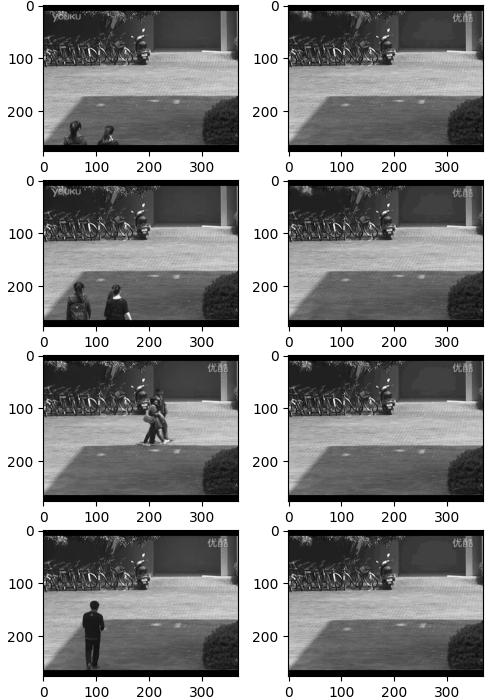
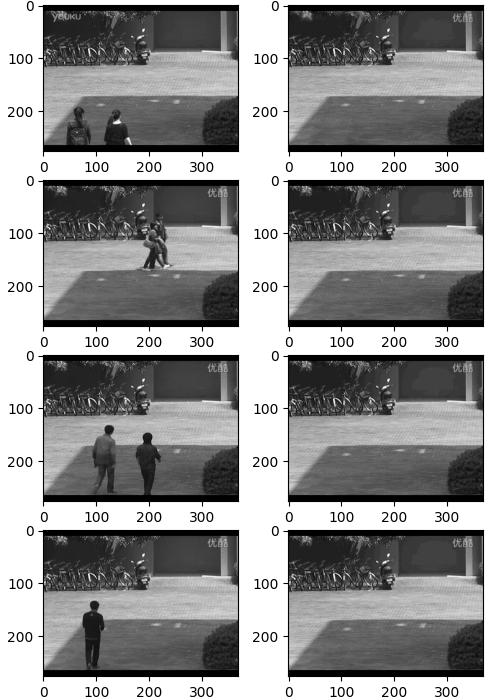
-

diff --git a/vision/vision_20ir/arkaplan__background__tespiti.html b/vision/vision_20ir/arkaplan__background__tespiti.html
@@ -90,52 +90,49 @@ class="sourceCode python"><code class="sourceCode python"><span id="cb1-1"><a hr
 <span id="cb1-2"><a href="#cb1-2" aria-hidden="true" tabindex="-1"></a><span class="im">import</span> numpy <span class="im">as</span> np, cv2</span>
 <span id="cb1-3"><a href="#cb1-3" aria-hidden="true" tabindex="-1"></a><span class="im">import</span> time, datetime</span>
 <span id="cb1-4"><a href="#cb1-4" aria-hidden="true" tabindex="-1"></a></span>
-<span id="cb1-5"><a href="#cb1-5" aria-hidden="true" tabindex="-1"></a><span class="co"># --- Parameters ---</span></span>
-<span id="cb1-6"><a href="#cb1-6" aria-hidden="true" tabindex="-1"></a>N <span class="op">=</span> <span class="dv">400</span>                    <span class="co"># &quot;memory&quot; factor (higher = slower updates)</span></span>
-<span id="cb1-7"><a href="#cb1-7" aria-hidden="true" tabindex="-1"></a>bandwidth <span class="op">=</span> <span class="fl">40.0</span>           <span class="co"># Gaussian bandwidth (spread)</span></span>
-<span id="cb1-8"><a href="#cb1-8" aria-hidden="true" tabindex="-1"></a>num_bins <span class="op">=</span> <span class="dv">32</span>              <span class="co"># how many bins to represent PDF</span></span>
-<span id="cb1-9"><a href="#cb1-9" aria-hidden="true" tabindex="-1"></a>bin_centers <span class="op">=</span> np.linspace(<span class="dv">0</span>, <span class="dv">255</span>, num_bins).astype(np.float32)</span>
-<span id="cb1-10"><a href="#cb1-10" aria-hidden="true" tabindex="-1"></a>alpha <span class="op">=</span> <span class="dv">1</span><span class="op">/</span>N</span>
-<span id="cb1-11"><a href="#cb1-11" aria-hidden="true" tabindex="-1"></a></span>
-<span id="cb1-12"><a href="#cb1-12" aria-hidden="true" tabindex="-1"></a><span class="co"># --- Video input ---</span></span>
-<span id="cb1-13"><a href="#cb1-13" aria-hidden="true" tabindex="-1"></a>cap <span class="op">=</span> cv2.VideoCapture(<span class="st">&#39;/opt/Downloads/skdata/campus_vibe_video4.mp4&#39;</span>)</span>
-<span id="cb1-14"><a href="#cb1-14" aria-hidden="true" tabindex="-1"></a>fps <span class="op">=</span> <span class="bu">int</span>(cap.get(cv2.CAP_PROP_FPS))</span>
-<span id="cb1-15"><a href="#cb1-15" aria-hidden="true" tabindex="-1"></a><span class="bu">print</span>(<span class="ss">f&quot;Frame rate: </span><span class="sc">{</span>fps<span class="sc">}</span><span class="ss"> FPS&quot;</span>)</span>
-<span id="cb1-16"><a href="#cb1-16" aria-hidden="true" tabindex="-1"></a></span>
-<span id="cb1-17"><a href="#cb1-17" aria-hidden="true" tabindex="-1"></a>pdf_model <span class="op">=</span> <span class="va">None</span></span>
-<span id="cb1-18"><a href="#cb1-18" aria-hidden="true" tabindex="-1"></a>frame_index <span class="op">=</span> <span class="dv">0</span></span>
-<span id="cb1-19"><a href="#cb1-19" aria-hidden="true" tabindex="-1"></a>fig, axes <span class="op">=</span> plt.subplots(nrows<span class="op">=</span><span class="dv">4</span>, ncols<span class="op">=</span><span class="dv">2</span>, figsize<span class="op">=</span>(<span class="dv">5</span>,<span class="dv">7</span>))</span>
-<span id="cb1-20"><a href="#cb1-20" aria-hidden="true" tabindex="-1"></a>grow <span class="op">=</span> <span class="dv">0</span></span>
-<span id="cb1-21"><a href="#cb1-21" aria-hidden="true" tabindex="-1"></a><span class="cf">for</span> k <span class="kw">in</span> <span class="bu">range</span>(<span class="dv">4000</span>):</span>
-<span id="cb1-22"><a href="#cb1-22" aria-hidden="true" tabindex="-1"></a>    ret, frame <span class="op">=</span> cap.read()</span>
-<span id="cb1-23"><a href="#cb1-23" aria-hidden="true" tabindex="-1"></a>    <span class="cf">if</span> <span class="kw">not</span> ret: <span class="cf">break</span></span>
-<span id="cb1-24"><a href="#cb1-24" aria-hidden="true" tabindex="-1"></a>    gray_frame <span class="op">=</span> cv2.cvtColor(frame, cv2.COLOR_BGR2GRAY).astype(np.float32)</span>
-<span id="cb1-25"><a href="#cb1-25" aria-hidden="true" tabindex="-1"></a>    H, W <span class="op">=</span> gray_frame.shape</span>
-<span id="cb1-26"><a href="#cb1-26" aria-hidden="true" tabindex="-1"></a>    <span class="cf">if</span> pdf_model <span class="kw">is</span> <span class="va">None</span>:</span>
-<span id="cb1-27"><a href="#cb1-27" aria-hidden="true" tabindex="-1"></a>        pdf_model <span class="op">=</span> np.ones((H, W, num_bins), dtype<span class="op">=</span>np.float32) <span class="op">/</span> num_bins</span>
-<span id="cb1-28"><a href="#cb1-28" aria-hidden="true" tabindex="-1"></a></span>
-<span id="cb1-29"><a href="#cb1-29" aria-hidden="true" tabindex="-1"></a>    diffs <span class="op">=</span> gray_frame[..., <span class="va">None</span>] <span class="op">-</span> bin_centers[<span class="va">None</span>, <span class="va">None</span>, :]</span>
-<span id="cb1-30"><a href="#cb1-30" aria-hidden="true" tabindex="-1"></a>    new_pdf <span class="op">=</span> np.exp(<span class="op">-</span><span class="fl">0.5</span> <span class="op">*</span> (diffs <span class="op">/</span> bandwidth) <span class="op">**</span> <span class="dv">2</span>)</span>
-<span id="cb1-31"><a href="#cb1-31" aria-hidden="true" tabindex="-1"></a>    new_pdf <span class="op">/=</span> (new_pdf.<span class="bu">sum</span>(axis<span class="op">=-</span><span class="dv">1</span>, keepdims<span class="op">=</span><span class="va">True</span>) <span class="op">+</span> <span class="fl">1e-8</span>)  <span class="co"># normalize</span></span>
-<span id="cb1-32"><a href="#cb1-32" aria-hidden="true" tabindex="-1"></a>    pdf_model <span class="op">=</span> (<span class="dv">1</span> <span class="op">-</span> alpha) <span class="op">*</span> pdf_model <span class="op">+</span> alpha <span class="op">*</span> new_pdf</span>
-<span id="cb1-33"><a href="#cb1-33" aria-hidden="true" tabindex="-1"></a>    <span class="cf">if</span> frame_index <span class="kw">in</span> [<span class="dv">220</span>,<span class="dv">1200</span>,<span class="dv">190</span>,<span class="dv">3500</span>]:</span>
-<span id="cb1-34"><a href="#cb1-34" aria-hidden="true" tabindex="-1"></a>        background_bins <span class="op">=</span> pdf_model.argmax(axis<span class="op">=-</span><span class="dv">1</span>)  <span class="co"># index of most likely bin</span></span>
-<span id="cb1-35"><a href="#cb1-35" aria-hidden="true" tabindex="-1"></a>        background <span class="op">=</span> bin_centers[background_bins].astype(np.uint8)</span>
-<span id="cb1-36"><a href="#cb1-36" aria-hidden="true" tabindex="-1"></a>        t <span class="op">=</span> datetime.datetime.now()</span>
-<span id="cb1-37"><a href="#cb1-37" aria-hidden="true" tabindex="-1"></a>        <span class="bu">print</span>(<span class="ss">f&quot;Frame </span><span class="sc">{</span>frame_index<span class="sc">}</span><span class="ss">, Time </span><span class="sc">{</span>t<span class="sc">}</span><span class="ss">: saving background snapshot&quot;</span>)</span>
-<span id="cb1-38"><a href="#cb1-38" aria-hidden="true" tabindex="-1"></a>        background_bins <span class="op">=</span> pdf_model.argmax(axis<span class="op">=-</span><span class="dv">1</span>)  <span class="co"># index of most likely bin</span></span>
-<span id="cb1-39"><a href="#cb1-39" aria-hidden="true" tabindex="-1"></a>        background <span class="op">=</span> bin_centers[background_bins].astype(np.uint8)</span>
-<span id="cb1-40"><a href="#cb1-40" aria-hidden="true" tabindex="-1"></a>        axes[grow, <span class="dv">0</span>].imshow(gray_frame, cmap<span class="op">=</span><span class="st">&#39;gray&#39;</span>)</span>
-<span id="cb1-41"><a href="#cb1-41" aria-hidden="true" tabindex="-1"></a>        axes[grow, <span class="dv">1</span>].imshow(background, cmap<span class="op">=</span><span class="st">&#39;gray&#39;</span>)</span>
-<span id="cb1-42"><a href="#cb1-42" aria-hidden="true" tabindex="-1"></a>        grow <span class="op">=</span> grow <span class="op">+</span> <span class="dv">1</span>        </span>
-<span id="cb1-43"><a href="#cb1-43" aria-hidden="true" tabindex="-1"></a></span>
-<span id="cb1-44"><a href="#cb1-44" aria-hidden="true" tabindex="-1"></a>    frame_index <span class="op">+=</span> <span class="dv">1</span></span>
-<span id="cb1-45"><a href="#cb1-45" aria-hidden="true" tabindex="-1"></a>    <span class="cf">if</span> cv2.waitKey(<span class="dv">1</span>) <span class="op">&amp;</span> <span class="bn">0xFF</span> <span class="op">==</span> <span class="bu">ord</span>(<span class="st">&#39;q&#39;</span>): <span class="cf">break</span></span>
-<span id="cb1-46"><a href="#cb1-46" aria-hidden="true" tabindex="-1"></a>    </span>
-<span id="cb1-47"><a href="#cb1-47" aria-hidden="true" tabindex="-1"></a>plt.tight_layout(pad<span class="op">=</span><span class="dv">0</span>, w_pad<span class="op">=</span><span class="dv">0</span>, h_pad<span class="op">=</span><span class="dv">0</span>)</span>
-<span id="cb1-48"><a href="#cb1-48" aria-hidden="true" tabindex="-1"></a>plt.savefig(<span class="st">&#39;vision_20ir_01.jpg&#39;</span>)</span>
-<span id="cb1-49"><a href="#cb1-49" aria-hidden="true" tabindex="-1"></a>cap.release()</span>
-<span id="cb1-50"><a href="#cb1-50" aria-hidden="true" tabindex="-1"></a>cv2.destroyAllWindows()</span></code></pre></div>
+<span id="cb1-5"><a href="#cb1-5" aria-hidden="true" tabindex="-1"></a>N <span class="op">=</span> <span class="dv">400</span>                    <span class="co"># &quot;hafiza&quot; faktoru (daha yuksek = daha yavas guncelleme)</span></span>
+<span id="cb1-6"><a href="#cb1-6" aria-hidden="true" tabindex="-1"></a>bandwidth <span class="op">=</span> <span class="fl">40.0</span>           <span class="co"># Gaussian bant genisligi</span></span>
+<span id="cb1-7"><a href="#cb1-7" aria-hidden="true" tabindex="-1"></a>num_bins <span class="op">=</span> <span class="dv">32</span>              <span class="co"># PDF temsil etmek icin kac tane nokta secelim</span></span>
+<span id="cb1-8"><a href="#cb1-8" aria-hidden="true" tabindex="-1"></a>bin_centers <span class="op">=</span> np.linspace(<span class="dv">0</span>, <span class="dv">255</span>, num_bins).astype(np.float32)</span>
+<span id="cb1-9"><a href="#cb1-9" aria-hidden="true" tabindex="-1"></a>alpha <span class="op">=</span> <span class="dv">1</span><span class="op">/</span>N</span>
+<span id="cb1-10"><a href="#cb1-10" aria-hidden="true" tabindex="-1"></a></span>
+<span id="cb1-11"><a href="#cb1-11" aria-hidden="true" tabindex="-1"></a>cap <span class="op">=</span> cv2.VideoCapture(<span class="st">&#39;/opt/Downloads/skdata/campus_vibe_video4.mp4&#39;</span>)</span>
+<span id="cb1-12"><a href="#cb1-12" aria-hidden="true" tabindex="-1"></a>fps <span class="op">=</span> <span class="bu">int</span>(cap.get(cv2.CAP_PROP_FPS))</span>
+<span id="cb1-13"><a href="#cb1-13" aria-hidden="true" tabindex="-1"></a><span class="bu">print</span>(<span class="ss">f&quot;Frame rate: </span><span class="sc">{</span>fps<span class="sc">}</span><span class="ss"> FPS&quot;</span>)</span>
+<span id="cb1-14"><a href="#cb1-14" aria-hidden="true" tabindex="-1"></a></span>
+<span id="cb1-15"><a href="#cb1-15" aria-hidden="true" tabindex="-1"></a>pdf_model <span class="op">=</span> <span class="va">None</span></span>
+<span id="cb1-16"><a href="#cb1-16" aria-hidden="true" tabindex="-1"></a>frame_index <span class="op">=</span> <span class="dv">0</span></span>
+<span id="cb1-17"><a href="#cb1-17" aria-hidden="true" tabindex="-1"></a>fig, axes <span class="op">=</span> plt.subplots(nrows<span class="op">=</span><span class="dv">4</span>, ncols<span class="op">=</span><span class="dv">2</span>, figsize<span class="op">=</span>(<span class="dv">5</span>,<span class="dv">7</span>))</span>
+<span id="cb1-18"><a href="#cb1-18" aria-hidden="true" tabindex="-1"></a>g_row <span class="op">=</span> <span class="dv">0</span></span>
+<span id="cb1-19"><a href="#cb1-19" aria-hidden="true" tabindex="-1"></a><span class="cf">for</span> k <span class="kw">in</span> <span class="bu">range</span>(<span class="dv">3600</span>):</span>
+<span id="cb1-20"><a href="#cb1-20" aria-hidden="true" tabindex="-1"></a>    ret, frame <span class="op">=</span> cap.read()</span>
+<span id="cb1-21"><a href="#cb1-21" aria-hidden="true" tabindex="-1"></a>    <span class="cf">if</span> <span class="kw">not</span> ret: <span class="cf">break</span></span>
+<span id="cb1-22"><a href="#cb1-22" aria-hidden="true" tabindex="-1"></a>    gray_frame <span class="op">=</span> cv2.cvtColor(frame, cv2.COLOR_BGR2GRAY).astype(np.float32)</span>
+<span id="cb1-23"><a href="#cb1-23" aria-hidden="true" tabindex="-1"></a>    H, W <span class="op">=</span> gray_frame.shape</span>
+<span id="cb1-24"><a href="#cb1-24" aria-hidden="true" tabindex="-1"></a>    <span class="cf">if</span> pdf_model <span class="kw">is</span> <span class="va">None</span>:</span>
+<span id="cb1-25"><a href="#cb1-25" aria-hidden="true" tabindex="-1"></a>        pdf_model <span class="op">=</span> np.ones((H, W, num_bins), dtype<span class="op">=</span>np.float32) <span class="op">/</span> num_bins</span>
+<span id="cb1-26"><a href="#cb1-26" aria-hidden="true" tabindex="-1"></a></span>
+<span id="cb1-27"><a href="#cb1-27" aria-hidden="true" tabindex="-1"></a>    diffs <span class="op">=</span> gray_frame[..., <span class="va">None</span>] <span class="op">-</span> bin_centers[<span class="va">None</span>, <span class="va">None</span>, :]</span>
+<span id="cb1-28"><a href="#cb1-28" aria-hidden="true" tabindex="-1"></a>    new_pdf <span class="op">=</span> np.exp(<span class="op">-</span><span class="fl">0.5</span> <span class="op">*</span> (diffs <span class="op">/</span> bandwidth) <span class="op">**</span> <span class="dv">2</span>)</span>
+<span id="cb1-29"><a href="#cb1-29" aria-hidden="true" tabindex="-1"></a>    new_pdf <span class="op">/=</span> (new_pdf.<span class="bu">sum</span>(axis<span class="op">=-</span><span class="dv">1</span>, keepdims<span class="op">=</span><span class="va">True</span>) <span class="op">+</span> <span class="fl">1e-8</span>)  <span class="co"># normalize</span></span>
+<span id="cb1-30"><a href="#cb1-30" aria-hidden="true" tabindex="-1"></a>    pdf_model <span class="op">=</span> (<span class="dv">1</span> <span class="op">-</span> alpha) <span class="op">*</span> pdf_model <span class="op">+</span> alpha <span class="op">*</span> new_pdf</span>
+<span id="cb1-31"><a href="#cb1-31" aria-hidden="true" tabindex="-1"></a>    <span class="cf">if</span> frame_index <span class="kw">in</span> [<span class="dv">220</span>,<span class="dv">1200</span>,<span class="dv">1900</span>,<span class="dv">3500</span>]:</span>
+<span id="cb1-32"><a href="#cb1-32" aria-hidden="true" tabindex="-1"></a>        background_bins <span class="op">=</span> pdf_model.argmax(axis<span class="op">=-</span><span class="dv">1</span>)  <span class="co"># index of most likely bin</span></span>
+<span id="cb1-33"><a href="#cb1-33" aria-hidden="true" tabindex="-1"></a>        background <span class="op">=</span> bin_centers[background_bins].astype(np.uint8)</span>
+<span id="cb1-34"><a href="#cb1-34" aria-hidden="true" tabindex="-1"></a>        t <span class="op">=</span> datetime.datetime.now()</span>
+<span id="cb1-35"><a href="#cb1-35" aria-hidden="true" tabindex="-1"></a>        <span class="bu">print</span>(<span class="ss">f&quot;Frame </span><span class="sc">{</span>frame_index<span class="sc">}</span><span class="ss">, Time </span><span class="sc">{</span>t<span class="sc">}</span><span class="ss">: saving background snapshot&quot;</span>)</span>
+<span id="cb1-36"><a href="#cb1-36" aria-hidden="true" tabindex="-1"></a>        background_bins <span class="op">=</span> pdf_model.argmax(axis<span class="op">=-</span><span class="dv">1</span>)  <span class="co"># index of most likely bin</span></span>
+<span id="cb1-37"><a href="#cb1-37" aria-hidden="true" tabindex="-1"></a>        background <span class="op">=</span> bin_centers[background_bins].astype(np.uint8)</span>
+<span id="cb1-38"><a href="#cb1-38" aria-hidden="true" tabindex="-1"></a>        axes[g_row, <span class="dv">0</span>].imshow(gray_frame, cmap<span class="op">=</span><span class="st">&#39;gray&#39;</span>)</span>
+<span id="cb1-39"><a href="#cb1-39" aria-hidden="true" tabindex="-1"></a>        axes[g_row, <span class="dv">1</span>].imshow(background, cmap<span class="op">=</span><span class="st">&#39;gray&#39;</span>)</span>
+<span id="cb1-40"><a href="#cb1-40" aria-hidden="true" tabindex="-1"></a>        g_row <span class="op">=</span> g_row <span class="op">+</span> <span class="dv">1</span>        </span>
+<span id="cb1-41"><a href="#cb1-41" aria-hidden="true" tabindex="-1"></a></span>
+<span id="cb1-42"><a href="#cb1-42" aria-hidden="true" tabindex="-1"></a>    frame_index <span class="op">+=</span> <span class="dv">1</span></span>
+<span id="cb1-43"><a href="#cb1-43" aria-hidden="true" tabindex="-1"></a>    </span>
+<span id="cb1-44"><a href="#cb1-44" aria-hidden="true" tabindex="-1"></a>plt.tight_layout(pad<span class="op">=</span><span class="dv">0</span>, w_pad<span class="op">=</span><span class="dv">0</span>, h_pad<span class="op">=</span><span class="dv">0</span>)</span>
+<span id="cb1-45"><a href="#cb1-45" aria-hidden="true" tabindex="-1"></a>plt.savefig(<span class="st">&#39;vision_20ir_01.jpg&#39;</span>)</span>
+<span id="cb1-46"><a href="#cb1-46" aria-hidden="true" tabindex="-1"></a>cap.release()</span>
+<span id="cb1-47"><a href="#cb1-47" aria-hidden="true" tabindex="-1"></a>cv2.destroyAllWindows()</span></code></pre></div>
 <p><img src="vision_20ir_01.jpg" /></p>
 <p>[devam edecek]</p>
 <p>Kaynaklar</p>

diff --git a/vision/vision_20ir/vision_20ir.html b/vision/vision_20ir/vision_20ir.html
@@ -90,52 +90,49 @@ class="sourceCode python"><code class="sourceCode python"><span id="cb1-1"><a hr
 <span id="cb1-2"><a href="#cb1-2" aria-hidden="true" tabindex="-1"></a><span class="im">import</span> numpy <span class="im">as</span> np, cv2</span>
 <span id="cb1-3"><a href="#cb1-3" aria-hidden="true" tabindex="-1"></a><span class="im">import</span> time, datetime</span>
 <span id="cb1-4"><a href="#cb1-4" aria-hidden="true" tabindex="-1"></a></span>
-<span id="cb1-5"><a href="#cb1-5" aria-hidden="true" tabindex="-1"></a><span class="co"># --- Parameters ---</span></span>
-<span id="cb1-6"><a href="#cb1-6" aria-hidden="true" tabindex="-1"></a>N <span class="op">=</span> <span class="dv">400</span>                    <span class="co"># &quot;memory&quot; factor (higher = slower updates)</span></span>
-<span id="cb1-7"><a href="#cb1-7" aria-hidden="true" tabindex="-1"></a>bandwidth <span class="op">=</span> <span class="fl">40.0</span>           <span class="co"># Gaussian bandwidth (spread)</span></span>
-<span id="cb1-8"><a href="#cb1-8" aria-hidden="true" tabindex="-1"></a>num_bins <span class="op">=</span> <span class="dv">32</span>              <span class="co"># how many bins to represent PDF</span></span>
-<span id="cb1-9"><a href="#cb1-9" aria-hidden="true" tabindex="-1"></a>bin_centers <span class="op">=</span> np.linspace(<span class="dv">0</span>, <span class="dv">255</span>, num_bins).astype(np.float32)</span>
-<span id="cb1-10"><a href="#cb1-10" aria-hidden="true" tabindex="-1"></a>alpha <span class="op">=</span> <span class="dv">1</span><span class="op">/</span>N</span>
-<span id="cb1-11"><a href="#cb1-11" aria-hidden="true" tabindex="-1"></a></span>
-<span id="cb1-12"><a href="#cb1-12" aria-hidden="true" tabindex="-1"></a><span class="co"># --- Video input ---</span></span>
-<span id="cb1-13"><a href="#cb1-13" aria-hidden="true" tabindex="-1"></a>cap <span class="op">=</span> cv2.VideoCapture(<span class="st">&#39;/opt/Downloads/skdata/campus_vibe_video4.mp4&#39;</span>)</span>
-<span id="cb1-14"><a href="#cb1-14" aria-hidden="true" tabindex="-1"></a>fps <span class="op">=</span> <span class="bu">int</span>(cap.get(cv2.CAP_PROP_FPS))</span>
-<span id="cb1-15"><a href="#cb1-15" aria-hidden="true" tabindex="-1"></a><span class="bu">print</span>(<span class="ss">f&quot;Frame rate: </span><span class="sc">{</span>fps<span class="sc">}</span><span class="ss"> FPS&quot;</span>)</span>
-<span id="cb1-16"><a href="#cb1-16" aria-hidden="true" tabindex="-1"></a></span>
-<span id="cb1-17"><a href="#cb1-17" aria-hidden="true" tabindex="-1"></a>pdf_model <span class="op">=</span> <span class="va">None</span></span>
-<span id="cb1-18"><a href="#cb1-18" aria-hidden="true" tabindex="-1"></a>frame_index <span class="op">=</span> <span class="dv">0</span></span>
-<span id="cb1-19"><a href="#cb1-19" aria-hidden="true" tabindex="-1"></a>fig, axes <span class="op">=</span> plt.subplots(nrows<span class="op">=</span><span class="dv">4</span>, ncols<span class="op">=</span><span class="dv">2</span>, figsize<span class="op">=</span>(<span class="dv">5</span>,<span class="dv">7</span>))</span>
-<span id="cb1-20"><a href="#cb1-20" aria-hidden="true" tabindex="-1"></a>grow <span class="op">=</span> <span class="dv">0</span></span>
-<span id="cb1-21"><a href="#cb1-21" aria-hidden="true" tabindex="-1"></a><span class="cf">for</span> k <span class="kw">in</span> <span class="bu">range</span>(<span class="dv">4000</span>):</span>
-<span id="cb1-22"><a href="#cb1-22" aria-hidden="true" tabindex="-1"></a>    ret, frame <span class="op">=</span> cap.read()</span>
-<span id="cb1-23"><a href="#cb1-23" aria-hidden="true" tabindex="-1"></a>    <span class="cf">if</span> <span class="kw">not</span> ret: <span class="cf">break</span></span>
-<span id="cb1-24"><a href="#cb1-24" aria-hidden="true" tabindex="-1"></a>    gray_frame <span class="op">=</span> cv2.cvtColor(frame, cv2.COLOR_BGR2GRAY).astype(np.float32)</span>
-<span id="cb1-25"><a href="#cb1-25" aria-hidden="true" tabindex="-1"></a>    H, W <span class="op">=</span> gray_frame.shape</span>
-<span id="cb1-26"><a href="#cb1-26" aria-hidden="true" tabindex="-1"></a>    <span class="cf">if</span> pdf_model <span class="kw">is</span> <span class="va">None</span>:</span>
-<span id="cb1-27"><a href="#cb1-27" aria-hidden="true" tabindex="-1"></a>        pdf_model <span class="op">=</span> np.ones((H, W, num_bins), dtype<span class="op">=</span>np.float32) <span class="op">/</span> num_bins</span>
-<span id="cb1-28"><a href="#cb1-28" aria-hidden="true" tabindex="-1"></a></span>
-<span id="cb1-29"><a href="#cb1-29" aria-hidden="true" tabindex="-1"></a>    diffs <span class="op">=</span> gray_frame[..., <span class="va">None</span>] <span class="op">-</span> bin_centers[<span class="va">None</span>, <span class="va">None</span>, :]</span>
-<span id="cb1-30"><a href="#cb1-30" aria-hidden="true" tabindex="-1"></a>    new_pdf <span class="op">=</span> np.exp(<span class="op">-</span><span class="fl">0.5</span> <span class="op">*</span> (diffs <span class="op">/</span> bandwidth) <span class="op">**</span> <span class="dv">2</span>)</span>
-<span id="cb1-31"><a href="#cb1-31" aria-hidden="true" tabindex="-1"></a>    new_pdf <span class="op">/=</span> (new_pdf.<span class="bu">sum</span>(axis<span class="op">=-</span><span class="dv">1</span>, keepdims<span class="op">=</span><span class="va">True</span>) <span class="op">+</span> <span class="fl">1e-8</span>)  <span class="co"># normalize</span></span>
-<span id="cb1-32"><a href="#cb1-32" aria-hidden="true" tabindex="-1"></a>    pdf_model <span class="op">=</span> (<span class="dv">1</span> <span class="op">-</span> alpha) <span class="op">*</span> pdf_model <span class="op">+</span> alpha <span class="op">*</span> new_pdf</span>
-<span id="cb1-33"><a href="#cb1-33" aria-hidden="true" tabindex="-1"></a>    <span class="cf">if</span> frame_index <span class="kw">in</span> [<span class="dv">220</span>,<span class="dv">1200</span>,<span class="dv">190</span>,<span class="dv">3500</span>]:</span>
-<span id="cb1-34"><a href="#cb1-34" aria-hidden="true" tabindex="-1"></a>        background_bins <span class="op">=</span> pdf_model.argmax(axis<span class="op">=-</span><span class="dv">1</span>)  <span class="co"># index of most likely bin</span></span>
-<span id="cb1-35"><a href="#cb1-35" aria-hidden="true" tabindex="-1"></a>        background <span class="op">=</span> bin_centers[background_bins].astype(np.uint8)</span>
-<span id="cb1-36"><a href="#cb1-36" aria-hidden="true" tabindex="-1"></a>        t <span class="op">=</span> datetime.datetime.now()</span>
-<span id="cb1-37"><a href="#cb1-37" aria-hidden="true" tabindex="-1"></a>        <span class="bu">print</span>(<span class="ss">f&quot;Frame </span><span class="sc">{</span>frame_index<span class="sc">}</span><span class="ss">, Time </span><span class="sc">{</span>t<span class="sc">}</span><span class="ss">: saving background snapshot&quot;</span>)</span>
-<span id="cb1-38"><a href="#cb1-38" aria-hidden="true" tabindex="-1"></a>        background_bins <span class="op">=</span> pdf_model.argmax(axis<span class="op">=-</span><span class="dv">1</span>)  <span class="co"># index of most likely bin</span></span>
-<span id="cb1-39"><a href="#cb1-39" aria-hidden="true" tabindex="-1"></a>        background <span class="op">=</span> bin_centers[background_bins].astype(np.uint8)</span>
-<span id="cb1-40"><a href="#cb1-40" aria-hidden="true" tabindex="-1"></a>        axes[grow, <span class="dv">0</span>].imshow(gray_frame, cmap<span class="op">=</span><span class="st">&#39;gray&#39;</span>)</span>
-<span id="cb1-41"><a href="#cb1-41" aria-hidden="true" tabindex="-1"></a>        axes[grow, <span class="dv">1</span>].imshow(background, cmap<span class="op">=</span><span class="st">&#39;gray&#39;</span>)</span>
-<span id="cb1-42"><a href="#cb1-42" aria-hidden="true" tabindex="-1"></a>        grow <span class="op">=</span> grow <span class="op">+</span> <span class="dv">1</span>        </span>
-<span id="cb1-43"><a href="#cb1-43" aria-hidden="true" tabindex="-1"></a></span>
-<span id="cb1-44"><a href="#cb1-44" aria-hidden="true" tabindex="-1"></a>    frame_index <span class="op">+=</span> <span class="dv">1</span></span>
-<span id="cb1-45"><a href="#cb1-45" aria-hidden="true" tabindex="-1"></a>    <span class="cf">if</span> cv2.waitKey(<span class="dv">1</span>) <span class="op">&amp;</span> <span class="bn">0xFF</span> <span class="op">==</span> <span class="bu">ord</span>(<span class="st">&#39;q&#39;</span>): <span class="cf">break</span></span>
-<span id="cb1-46"><a href="#cb1-46" aria-hidden="true" tabindex="-1"></a>    </span>
-<span id="cb1-47"><a href="#cb1-47" aria-hidden="true" tabindex="-1"></a>plt.tight_layout(pad<span class="op">=</span><span class="dv">0</span>, w_pad<span class="op">=</span><span class="dv">0</span>, h_pad<span class="op">=</span><span class="dv">0</span>)</span>
-<span id="cb1-48"><a href="#cb1-48" aria-hidden="true" tabindex="-1"></a>plt.savefig(<span class="st">&#39;vision_20ir_01.jpg&#39;</span>)</span>
-<span id="cb1-49"><a href="#cb1-49" aria-hidden="true" tabindex="-1"></a>cap.release()</span>
-<span id="cb1-50"><a href="#cb1-50" aria-hidden="true" tabindex="-1"></a>cv2.destroyAllWindows()</span></code></pre></div>
+<span id="cb1-5"><a href="#cb1-5" aria-hidden="true" tabindex="-1"></a>N <span class="op">=</span> <span class="dv">400</span>                    <span class="co"># &quot;hafiza&quot; faktoru (daha yuksek = daha yavas guncelleme)</span></span>
+<span id="cb1-6"><a href="#cb1-6" aria-hidden="true" tabindex="-1"></a>bandwidth <span class="op">=</span> <span class="fl">40.0</span>           <span class="co"># Gaussian bant genisligi</span></span>
+<span id="cb1-7"><a href="#cb1-7" aria-hidden="true" tabindex="-1"></a>num_bins <span class="op">=</span> <span class="dv">32</span>              <span class="co"># PDF temsil etmek icin kac tane nokta secelim</span></span>
+<span id="cb1-8"><a href="#cb1-8" aria-hidden="true" tabindex="-1"></a>bin_centers <span class="op">=</span> np.linspace(<span class="dv">0</span>, <span class="dv">255</span>, num_bins).astype(np.float32)</span>
+<span id="cb1-9"><a href="#cb1-9" aria-hidden="true" tabindex="-1"></a>alpha <span class="op">=</span> <span class="dv">1</span><span class="op">/</span>N</span>
+<span id="cb1-10"><a href="#cb1-10" aria-hidden="true" tabindex="-1"></a></span>
+<span id="cb1-11"><a href="#cb1-11" aria-hidden="true" tabindex="-1"></a>cap <span class="op">=</span> cv2.VideoCapture(<span class="st">&#39;/opt/Downloads/skdata/campus_vibe_video4.mp4&#39;</span>)</span>
+<span id="cb1-12"><a href="#cb1-12" aria-hidden="true" tabindex="-1"></a>fps <span class="op">=</span> <span class="bu">int</span>(cap.get(cv2.CAP_PROP_FPS))</span>
+<span id="cb1-13"><a href="#cb1-13" aria-hidden="true" tabindex="-1"></a><span class="bu">print</span>(<span class="ss">f&quot;Frame rate: </span><span class="sc">{</span>fps<span class="sc">}</span><span class="ss"> FPS&quot;</span>)</span>
+<span id="cb1-14"><a href="#cb1-14" aria-hidden="true" tabindex="-1"></a></span>
+<span id="cb1-15"><a href="#cb1-15" aria-hidden="true" tabindex="-1"></a>pdf_model <span class="op">=</span> <span class="va">None</span></span>
+<span id="cb1-16"><a href="#cb1-16" aria-hidden="true" tabindex="-1"></a>frame_index <span class="op">=</span> <span class="dv">0</span></span>
+<span id="cb1-17"><a href="#cb1-17" aria-hidden="true" tabindex="-1"></a>fig, axes <span class="op">=</span> plt.subplots(nrows<span class="op">=</span><span class="dv">4</span>, ncols<span class="op">=</span><span class="dv">2</span>, figsize<span class="op">=</span>(<span class="dv">5</span>,<span class="dv">7</span>))</span>
+<span id="cb1-18"><a href="#cb1-18" aria-hidden="true" tabindex="-1"></a>g_row <span class="op">=</span> <span class="dv">0</span></span>
+<span id="cb1-19"><a href="#cb1-19" aria-hidden="true" tabindex="-1"></a><span class="cf">for</span> k <span class="kw">in</span> <span class="bu">range</span>(<span class="dv">3600</span>):</span>
+<span id="cb1-20"><a href="#cb1-20" aria-hidden="true" tabindex="-1"></a>    ret, frame <span class="op">=</span> cap.read()</span>
+<span id="cb1-21"><a href="#cb1-21" aria-hidden="true" tabindex="-1"></a>    <span class="cf">if</span> <span class="kw">not</span> ret: <span class="cf">break</span></span>
+<span id="cb1-22"><a href="#cb1-22" aria-hidden="true" tabindex="-1"></a>    gray_frame <span class="op">=</span> cv2.cvtColor(frame, cv2.COLOR_BGR2GRAY).astype(np.float32)</span>
+<span id="cb1-23"><a href="#cb1-23" aria-hidden="true" tabindex="-1"></a>    H, W <span class="op">=</span> gray_frame.shape</span>
+<span id="cb1-24"><a href="#cb1-24" aria-hidden="true" tabindex="-1"></a>    <span class="cf">if</span> pdf_model <span class="kw">is</span> <span class="va">None</span>:</span>
+<span id="cb1-25"><a href="#cb1-25" aria-hidden="true" tabindex="-1"></a>        pdf_model <span class="op">=</span> np.ones((H, W, num_bins), dtype<span class="op">=</span>np.float32) <span class="op">/</span> num_bins</span>
+<span id="cb1-26"><a href="#cb1-26" aria-hidden="true" tabindex="-1"></a></span>
+<span id="cb1-27"><a href="#cb1-27" aria-hidden="true" tabindex="-1"></a>    diffs <span class="op">=</span> gray_frame[..., <span class="va">None</span>] <span class="op">-</span> bin_centers[<span class="va">None</span>, <span class="va">None</span>, :]</span>
+<span id="cb1-28"><a href="#cb1-28" aria-hidden="true" tabindex="-1"></a>    new_pdf <span class="op">=</span> np.exp(<span class="op">-</span><span class="fl">0.5</span> <span class="op">*</span> (diffs <span class="op">/</span> bandwidth) <span class="op">**</span> <span class="dv">2</span>)</span>
+<span id="cb1-29"><a href="#cb1-29" aria-hidden="true" tabindex="-1"></a>    new_pdf <span class="op">/=</span> (new_pdf.<span class="bu">sum</span>(axis<span class="op">=-</span><span class="dv">1</span>, keepdims<span class="op">=</span><span class="va">True</span>) <span class="op">+</span> <span class="fl">1e-8</span>)  <span class="co"># normalize</span></span>
+<span id="cb1-30"><a href="#cb1-30" aria-hidden="true" tabindex="-1"></a>    pdf_model <span class="op">=</span> (<span class="dv">1</span> <span class="op">-</span> alpha) <span class="op">*</span> pdf_model <span class="op">+</span> alpha <span class="op">*</span> new_pdf</span>
+<span id="cb1-31"><a href="#cb1-31" aria-hidden="true" tabindex="-1"></a>    <span class="cf">if</span> frame_index <span class="kw">in</span> [<span class="dv">220</span>,<span class="dv">1200</span>,<span class="dv">1900</span>,<span class="dv">3500</span>]:</span>
+<span id="cb1-32"><a href="#cb1-32" aria-hidden="true" tabindex="-1"></a>        background_bins <span class="op">=</span> pdf_model.argmax(axis<span class="op">=-</span><span class="dv">1</span>)  <span class="co"># index of most likely bin</span></span>
+<span id="cb1-33"><a href="#cb1-33" aria-hidden="true" tabindex="-1"></a>        background <span class="op">=</span> bin_centers[background_bins].astype(np.uint8)</span>
+<span id="cb1-34"><a href="#cb1-34" aria-hidden="true" tabindex="-1"></a>        t <span class="op">=</span> datetime.datetime.now()</span>
+<span id="cb1-35"><a href="#cb1-35" aria-hidden="true" tabindex="-1"></a>        <span class="bu">print</span>(<span class="ss">f&quot;Frame </span><span class="sc">{</span>frame_index<span class="sc">}</span><span class="ss">, Time </span><span class="sc">{</span>t<span class="sc">}</span><span class="ss">: saving background snapshot&quot;</span>)</span>
+<span id="cb1-36"><a href="#cb1-36" aria-hidden="true" tabindex="-1"></a>        background_bins <span class="op">=</span> pdf_model.argmax(axis<span class="op">=-</span><span class="dv">1</span>)  <span class="co"># index of most likely bin</span></span>
+<span id="cb1-37"><a href="#cb1-37" aria-hidden="true" tabindex="-1"></a>        background <span class="op">=</span> bin_centers[background_bins].astype(np.uint8)</span>
+<span id="cb1-38"><a href="#cb1-38" aria-hidden="true" tabindex="-1"></a>        axes[g_row, <span class="dv">0</span>].imshow(gray_frame, cmap<span class="op">=</span><span class="st">&#39;gray&#39;</span>)</span>
+<span id="cb1-39"><a href="#cb1-39" aria-hidden="true" tabindex="-1"></a>        axes[g_row, <span class="dv">1</span>].imshow(background, cmap<span class="op">=</span><span class="st">&#39;gray&#39;</span>)</span>
+<span id="cb1-40"><a href="#cb1-40" aria-hidden="true" tabindex="-1"></a>        g_row <span class="op">=</span> g_row <span class="op">+</span> <span class="dv">1</span>        </span>
+<span id="cb1-41"><a href="#cb1-41" aria-hidden="true" tabindex="-1"></a></span>
+<span id="cb1-42"><a href="#cb1-42" aria-hidden="true" tabindex="-1"></a>    frame_index <span class="op">+=</span> <span class="dv">1</span></span>
+<span id="cb1-43"><a href="#cb1-43" aria-hidden="true" tabindex="-1"></a>    </span>
+<span id="cb1-44"><a href="#cb1-44" aria-hidden="true" tabindex="-1"></a>plt.tight_layout(pad<span class="op">=</span><span class="dv">0</span>, w_pad<span class="op">=</span><span class="dv">0</span>, h_pad<span class="op">=</span><span class="dv">0</span>)</span>
+<span id="cb1-45"><a href="#cb1-45" aria-hidden="true" tabindex="-1"></a>plt.savefig(<span class="st">&#39;vision_20ir_01.jpg&#39;</span>)</span>
+<span id="cb1-46"><a href="#cb1-46" aria-hidden="true" tabindex="-1"></a>cap.release()</span>
+<span id="cb1-47"><a href="#cb1-47" aria-hidden="true" tabindex="-1"></a>cv2.destroyAllWindows()</span></code></pre></div>
 <p><img src="vision_20ir_01.jpg" /></p>
 <p>[devam edecek]</p>
 <p>Kaynaklar</p>

diff --git a/stat/stat_053_nonpar/parametresiz_istatistik__nonparametric_statistics_.html b/stat/stat_053_nonpar/parametresiz_istatistik__nonparametric_statistics_.html
@@ -607,6 +607,20 @@ class="sourceCode python"><code class="sourceCode python"><span id="cb4-1"><a hr
 <span id="cb4-18"><a href="#cb4-18" aria-hidden="true" tabindex="-1"></a>plt.legend()</span>
 <span id="cb4-19"><a href="#cb4-19" aria-hidden="true" tabindex="-1"></a>plt.savefig(<span class="st">&#39;stat_053_nonpar_04.png&#39;</span>)</span></code></pre></div>
 <p><img src="stat_053_nonpar_04.png" /></p>
+<p>Üstteki metotun ne kadar verimli çalıştığını ne kadar anlatsak az
+gelir. Örnek amaçlı olarak <code>data</code> içindeki veriyi yarattık ve
+onun üzerinden geçiyoruz fakat dikkatlice bakarsak kodun aslında elde
+hiçbir veri tutmasına ihtiyacı yok. Onun tek hatırlaması gereken
+<code>total_density</code>, <code>x_values</code> icindeki <span
+class="math inline">\(x\)</span> değer listesi (bunlar bir kere
+ayarlandıktan sonra bir daha değişmiyor), ve tek bir <code>alpha</code>
+sabiti. Bu kadar. Yeni veri bize dış sistemden teker teker veriliyor
+olabilirdi, biz yine üstteki aynı güncelleme mantığını kullanırdık, ve
+bu mantık her yeni veri için <code>x_values</code> kadar nokta üzerinden
+geçerdi, orada bir Gaussian hesabı yapardı ve özyineli güncellemesini
+tek bir satırda gerçekleştirdi. Bu sayede, bu hızlı güncelleme ile,
+verinin dağılımı ne olursa olsun, onun esas dağılımı hakkında hiçbir şey
+bilmeden bu dağılımı yaklaşık şekilde temsil edebilmiş oluyoruz.</p>
 <p>Kaynaklar</p>
 <p>[1] Shalizi, <em>Advanced Data Analysis From An Elementary Point of
 View</em></p>

diff --git a/stat/stat_053_nonpar/stat_053_nonpar.html b/stat/stat_053_nonpar/stat_053_nonpar.html
@@ -607,6 +607,20 @@ class="sourceCode python"><code class="sourceCode python"><span id="cb4-1"><a hr
 <span id="cb4-18"><a href="#cb4-18" aria-hidden="true" tabindex="-1"></a>plt.legend()</span>
 <span id="cb4-19"><a href="#cb4-19" aria-hidden="true" tabindex="-1"></a>plt.savefig(<span class="st">&#39;stat_053_nonpar_04.png&#39;</span>)</span></code></pre></div>
 <p><img src="stat_053_nonpar_04.png" /></p>
+<p>Üstteki metotun ne kadar verimli çalıştığını ne kadar anlatsak az
+gelir. Örnek amaçlı olarak <code>data</code> içindeki veriyi yarattık ve
+onun üzerinden geçiyoruz fakat dikkatlice bakarsak kodun aslında elde
+hiçbir veri tutmasına ihtiyacı yok. Onun tek hatırlaması gereken
+<code>total_density</code>, <code>x_values</code> icindeki <span
+class="math inline">\(x\)</span> değer listesi (bunlar bir kere
+ayarlandıktan sonra bir daha değişmiyor), ve tek bir <code>alpha</code>
+sabiti. Bu kadar. Yeni veri bize dış sistemden teker teker veriliyor
+olabilirdi, biz yine üstteki aynı güncelleme mantığını kullanırdık, ve
+bu mantık her yeni veri için <code>x_values</code> kadar nokta üzerinden
+geçerdi, orada bir Gaussian hesabı yapardı ve özyineli güncellemesini
+tek bir satırda gerçekleştirdi. Bu sayede, bu hızlı güncelleme ile,
+verinin dağılımı ne olursa olsun, onun esas dağılımı hakkında hiçbir şey
+bilmeden bu dağılımı yaklaşık şekilde temsil edebilmiş oluyoruz.</p>
 <p>Kaynaklar</p>
 <p>[1] Shalizi, <em>Advanced Data Analysis From An Elementary Point of
 View</em></p>
